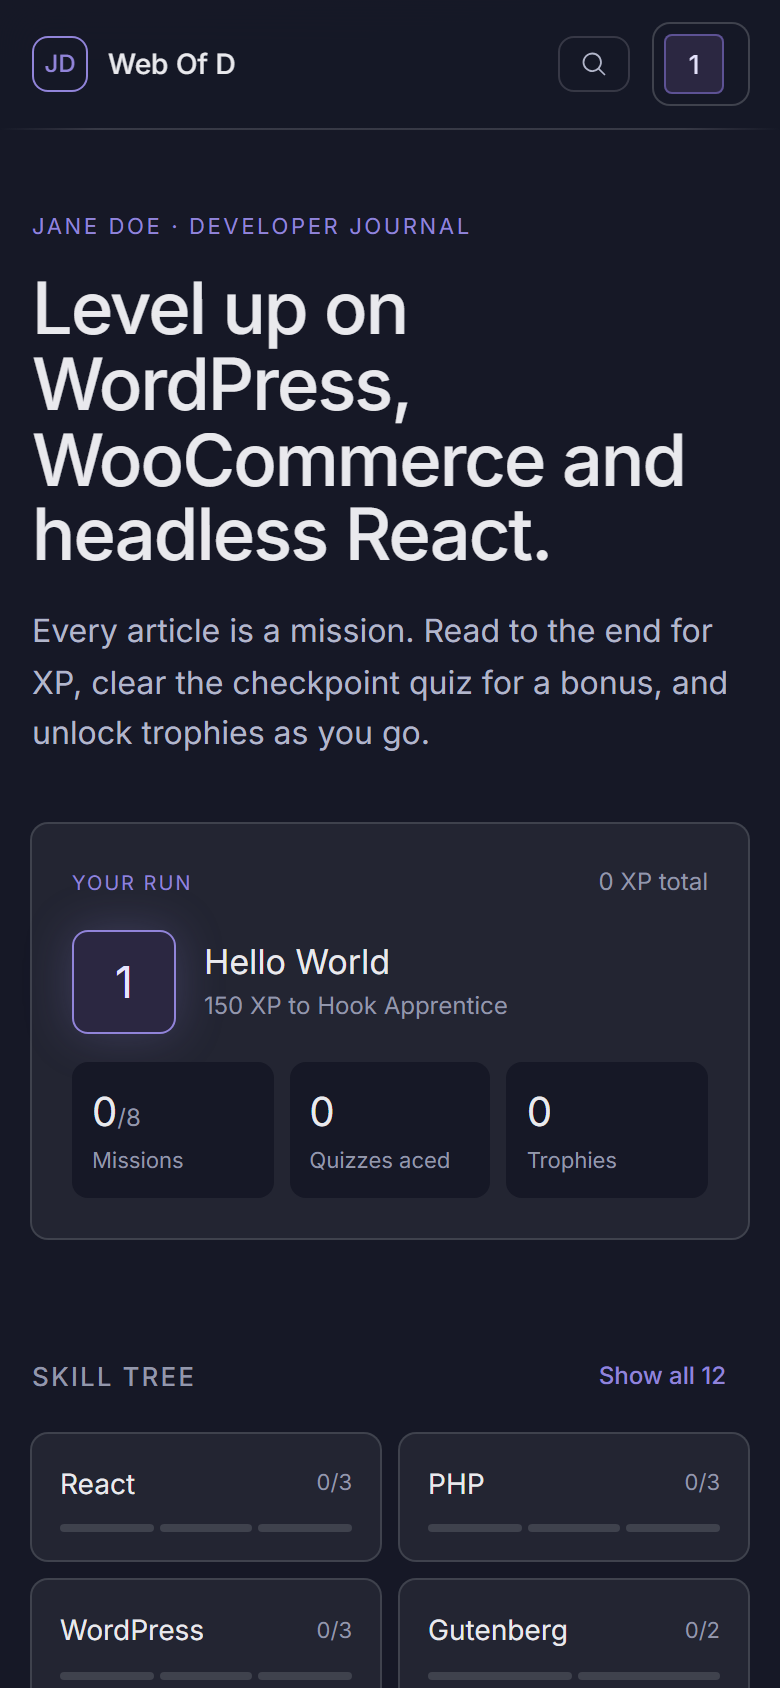
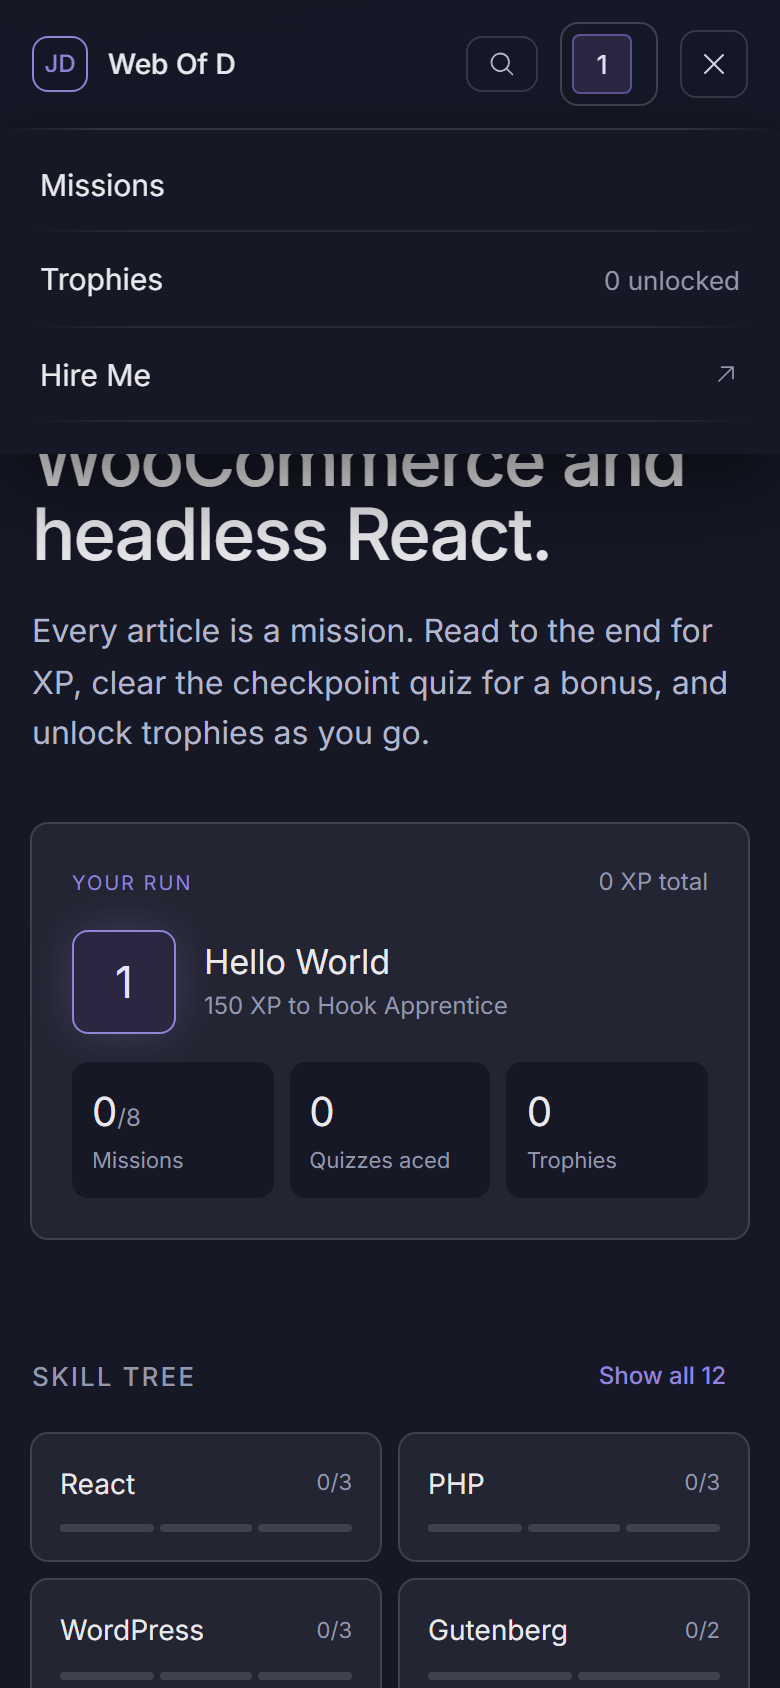
docs: show the mobile menu in the phone screenshot

diff --git a/README.md b/README.md
@@ -14,8 +14,8 @@ The UI is a React app (Vite, Tailwind 4, Nocturne design tokens). WordPress owns
 | **Post:** tags, difficulty, XP and read time, with Waypoints (table of contents) and reading progress in the sidebar. | **Checkpoint quiz:** one try per post. A correct answer adds bonus XP; reaching the end of the post clears the mission. |
 | ![The trophy case dialog with five of eight trophies unlocked](docs/screenshots/trophies.png) | ![The search dialog filtering missions by "woo"](docs/screenshots/search.png) |
 | **Trophy case:** eight trophies, locked ones dimmed, plus a progress reset. | **Search:** Ctrl+K (⌘K on Mac) filters missions by title, excerpt and category as you type. |
-| ![Appearance → Web Of D settings page](docs/screenshots/settings.png) | ![The Checkpoint quiz meta box in the post editor](docs/screenshots/quiz-meta-box.png) <br> <img src="docs/screenshots/mobile.png" alt="The mission board on a phone" width="240"> |
-| **Settings:** Appearance → Web Of D for homepage copy, links, game rules, navigation and performance. | **Quiz meta box** in the post editor, and the board on a phone. |
+| ![Appearance → Web Of D settings page](docs/screenshots/settings.png) | ![The Checkpoint quiz meta box in the post editor](docs/screenshots/quiz-meta-box.png) <br> <img src="docs/screenshots/mobile.png" alt="The mission board on a phone with the menu open" width="240"> |
+| **Settings:** Appearance → Web Of D for homepage copy, links, game rules, navigation and performance. | **Quiz meta box** in the post editor, and the board on a phone with the menu open (Missions, Trophies, header links, Hire Me). |
 
 ## WordPress additions
 
